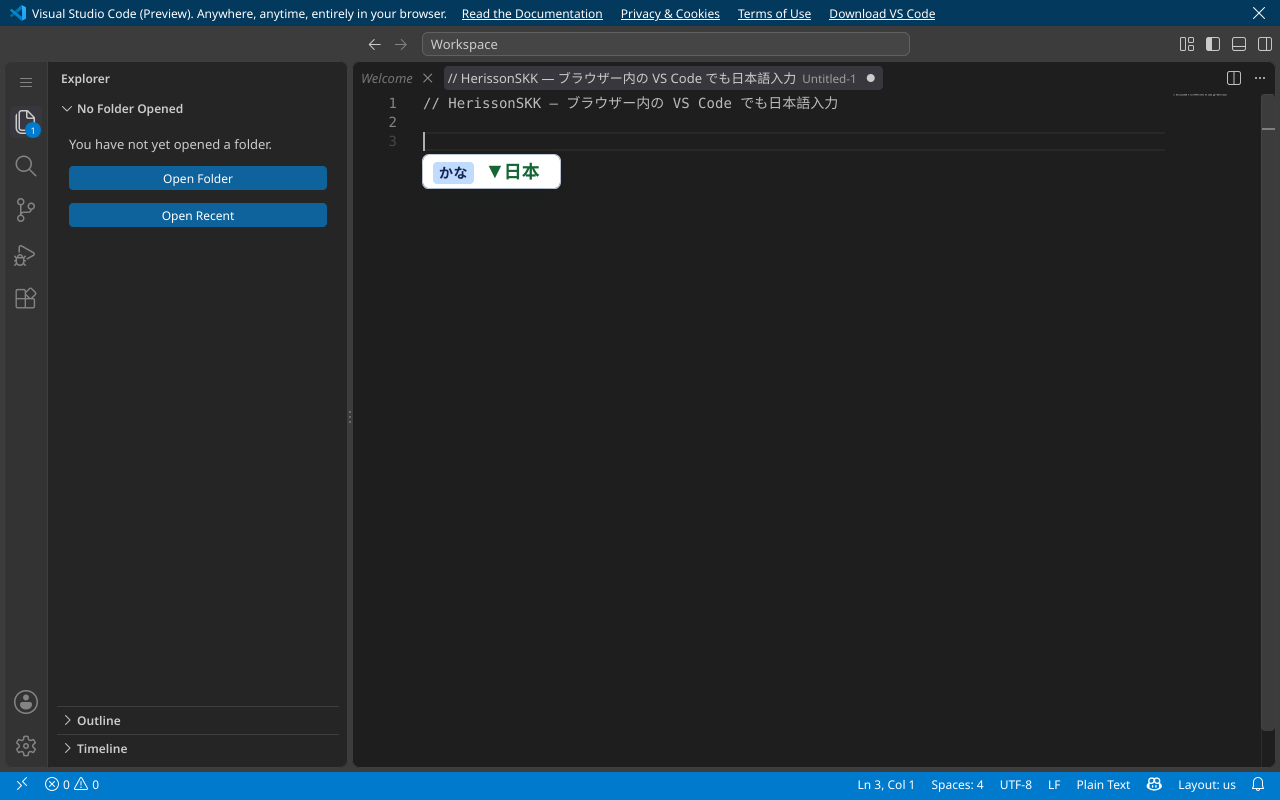
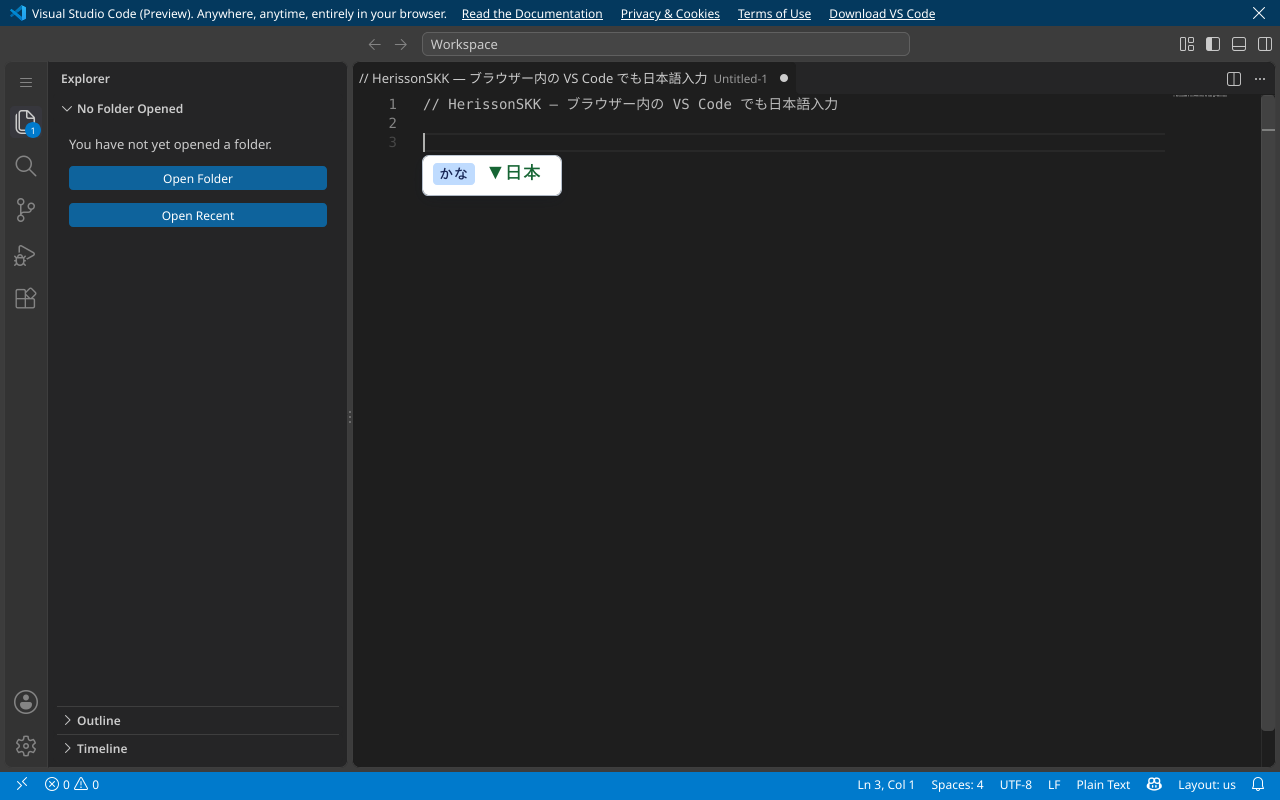
日本語フォント修正後の掲載画像を再撮影します
Chrome・Firefox の変換・登録・VS Code 画面を更新し、手動撮影した Firefox 辞書設定画面を追加します。掲載画像を 1280×800 に統一し、撮影条件を記録します。

Changed region(s): [[0.2812, 0.0625, 0.6875, 0.1562], [0.3125, 0.1875, 0.4375, 0.25]]

diff --git a/assets/store/README.md b/assets/store/README.md
@@ -1,17 +1,17 @@
 # ストア掲載用素材
 
-2026-09-23 の開発版で撮影し、作者がストア掲載用として採用した素材です。ストアへは未提出です。
+2026-09-23 に 0.1.3 で撮影したストア掲載用素材です。日本語フォント指定の修正後に Chrome／Firefox の変換・単語登録・VS Code 画面を再撮影しました。Firefox の辞書設定は作者の手動撮影画像です。
 
 | 内容 | Chrome | Firefox |
 | --- | --- | --- |
 | かな漢字変換 | [画像](./chrome-01-conversion.png) | [画像](./firefox-01-conversion.png) |
 | 単語登録 | [画像](./chrome-02-registration.png) | [画像](./firefox-02-registration.png) |
-| 辞書設定 | [画像](./chrome-03-dictionaries.png) | 未撮影 |
+| 辞書設定 | [画像](./chrome-03-dictionaries.png) | [画像](./firefox-03-dictionaries.png) |
 | VS Code for the Web | [画像](./chrome-04-vscode.png) | [画像](./firefox-04-vscode.png) |
 
-スクリーンショットは 1280 × 800 px です。背景の入力デモは撮影専用ページで、拡張機能の画面そのものではありません。変換表示と登録ダイアログは実際の拡張機能をキー操作した結果です。辞書設定は実際の設定画面です。VS Code は `https://vscode.dev` の新規未保存ファイルで実際に変換している画面です。拡張機能の表示を画像合成や CSS の差し替えで変更していません。
+スクリーンショットはすべて 1280 × 800 px です。背景の入力デモは撮影専用ページで、拡張機能の画面そのものではありません。変換表示と登録ダイアログは実際の拡張機能をキー操作した結果です。辞書設定は実際の設定画面です。VS Code は `https://vscode.dev` の新規未保存ファイルで実際に変換している画面です。拡張機能の表示を画像合成や CSS の差し替えで変更していません。
 
-Firefox の BiDi は拡張機能ページのスクリーンショットに対応していないため、Firefox の辞書設定は今回の自動撮影には含みません。Chrome の画面を Firefox の撮影結果として扱わないでください。
+Firefox の辞書設定画面は、2026-09-23 に作者が 0.1.3 の Firefox ウィンドウを手動撮影したものです。ブラウザー枠と余白をトリミングし、縦横比を維持して Lanczos 法で縮小しました。上下に背景色の余白を補い、1280 × 800 px に統一しています。表示内容は変更していません。
 
 [小型プロモーション画像](./promo-440x280.png)は Chrome Web Store 向けの 440 × 280 px です。採用済みアイコンと説明文を HTML で組み合わせました。画像サイズは [Chrome Web Store の公式案内](https://developer.chrome.com/docs/webstore/images)に合わせています。Chrome 用画像は透過なしの RGB PNG です。
 
@@ -40,4 +40,4 @@ node scripts/capture-store-screenshots.mjs
 
 デモページとプロモーション画像は `system-ui, sans-serif` を指定しています。この撮影環境の Chrome では欧文が Noto Sans、日本語が Noto Sans CJK JP で描画されることを開発者プロトコルで確認しました。フォントは固定配信していないため、OS やブラウザーにより異なります。
 
-拡張機能の変換表示・登録ダイアログは製品側の `-apple-system, BlinkMacSystemFont, "Segoe UI", Roboto, "Helvetica Neue", Arial, sans-serif` を使用します。VS Code の画面は同サービスの標準設定です。
+拡張機能の変換表示・登録ダイアログは `lang="ja"` と、日本語フォントを含む製品側の共通フォント指定（`src/hud/overlayTheme.ts`）を使用します。VS Code の画面は同サービスの標準設定です。

diff --git a/docs/store-submission-0.1.3.md b/docs/store-submission-0.1.3.md
@@ -33,6 +33,7 @@
 - アイコン: `assets/brand/HerissonSKK-512.png`
 - 変換: `assets/store/firefox-01-conversion.png`
 - 単語登録: `assets/store/firefox-02-registration.png`
+- 辞書設定: `assets/store/firefox-03-dictionaries.png`
 - VS Code for the Web: `assets/store/firefox-04-vscode.png`
 
 ## 審査担当者へのメモ
